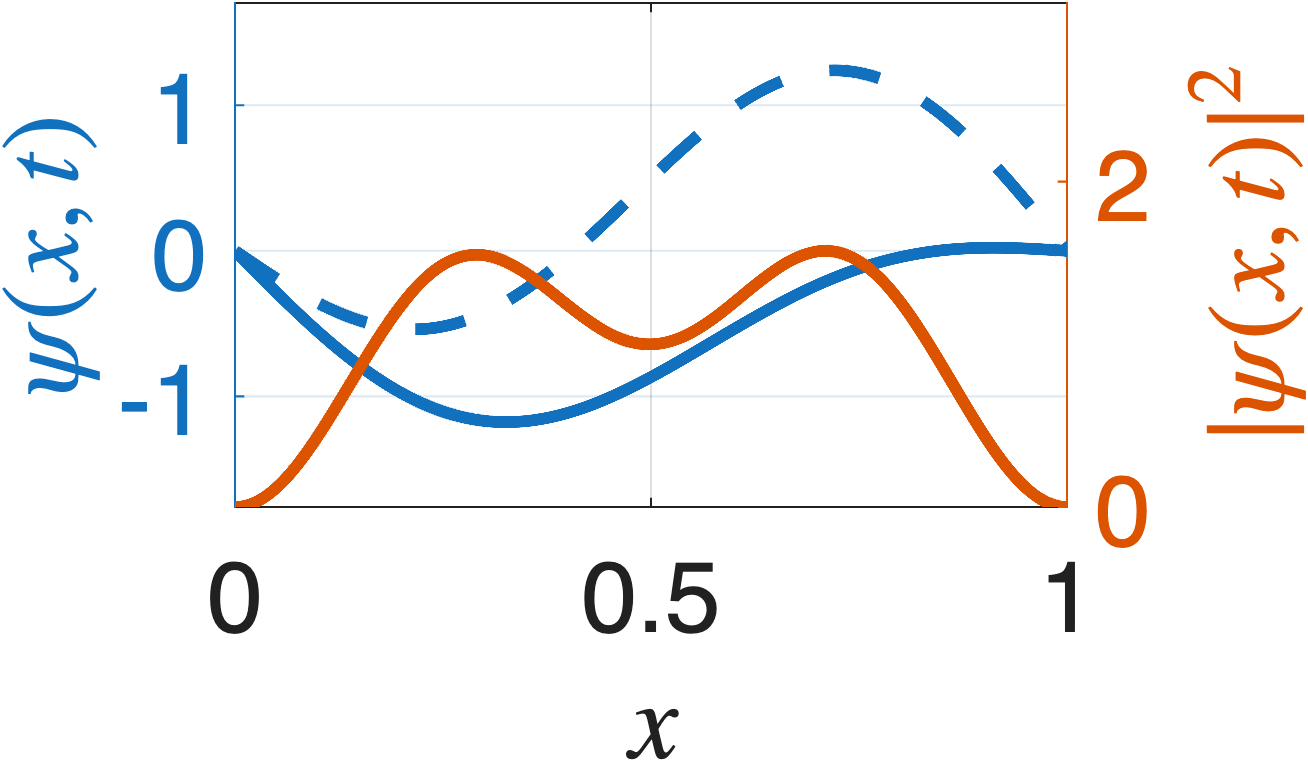
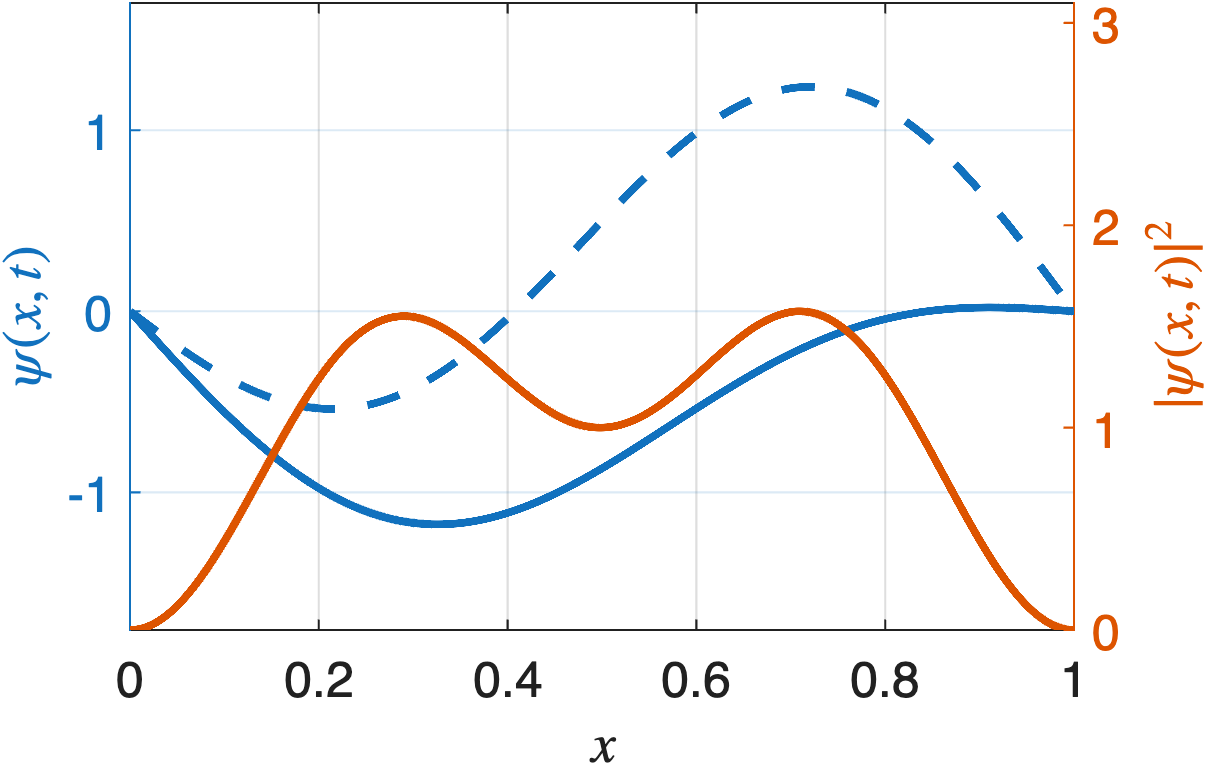
Updated figures with smaller text size and thinner graphs.

diff --git a/Part_Ia_Particle_in_a_Box/PIB_Superpos_Thesis_Figures/PIB_Superpos_Wave_Packet_Sim_Nat_Units_Figure_Generator.m b/Part_Ia_Particle_in_a_Box/PIB_Superpos_Thesis_Figures/PIB_Superpos_Wave_Packet_Sim_Nat_Units_Figure_Generator.m
@@ -121,14 +121,14 @@ t_array = dt * (0:N_t - 1); % Create a time array
 subplot(2, 2, 1) % Top Left subfigure
 
 yyaxis('left')
-real_wavefunction = plot(x, real(psi_t(:, 1)), 'LineWidth', 3); % Plot the real wavefunction
+real_wavefunction = plot(x, real(psi_t(:, 1)), 'LineWidth', 2); % Plot the real wavefunction
 hold on
-imag_wavefunction = plot(x, imag(psi_t(:, 1)), 'LineWidth', 3); % Plot the imaginary wavefunction
+imag_wavefunction = plot(x, imag(psi_t(:, 1)), 'LineWidth', 2); % Plot the imaginary wavefunction
 ylabel('$\psi(x, t)$', 'Interpreter','latex'); % Label the wavefunction y-axis
 ylim([min(min(real(psi_t(:))), min(imag(psi_t(:)))) max(max(real(psi_t(:))), max(imag(psi_t(:))))]); % Set the y-limits for wavefunction plot
 
 yyaxis('right')
-prob_density = plot(x, abs(psi_t(:, 1)).^2, 'LineWidth', 3); % Plot the initial probability density
+prob_density = plot(x, abs(psi_t(:, 1)).^2, 'LineWidth', 2); % Plot the initial probability density
 ylabel('$|\psi(x, t)|^2$', 'Interpreter','latex'); % Label the prob density y-axis
 ylim([min(abs(psi_t(:)).^2) max(abs(psi_t(:)).^2)]); % Set the y-limits of prob density axis
 hold off
@@ -136,8 +136,8 @@ hold off
 xlabel('$x$', 'Interpreter','latex'); % Label the x-axis
 grid on; % Add a grid to the plot
 
-set(groot, 'DefaultAxesFontSize', 24); % Set the font size for axes
-set(groot, 'DefaultTextFontSize', 24); % Set the font size for other text
+set(groot, 'DefaultAxesFontSize', 12); % Set the font size for axes
+set(groot, 'DefaultTextFontSize', 12); % Set the font size for other text
 
 % Animate the figures
 
